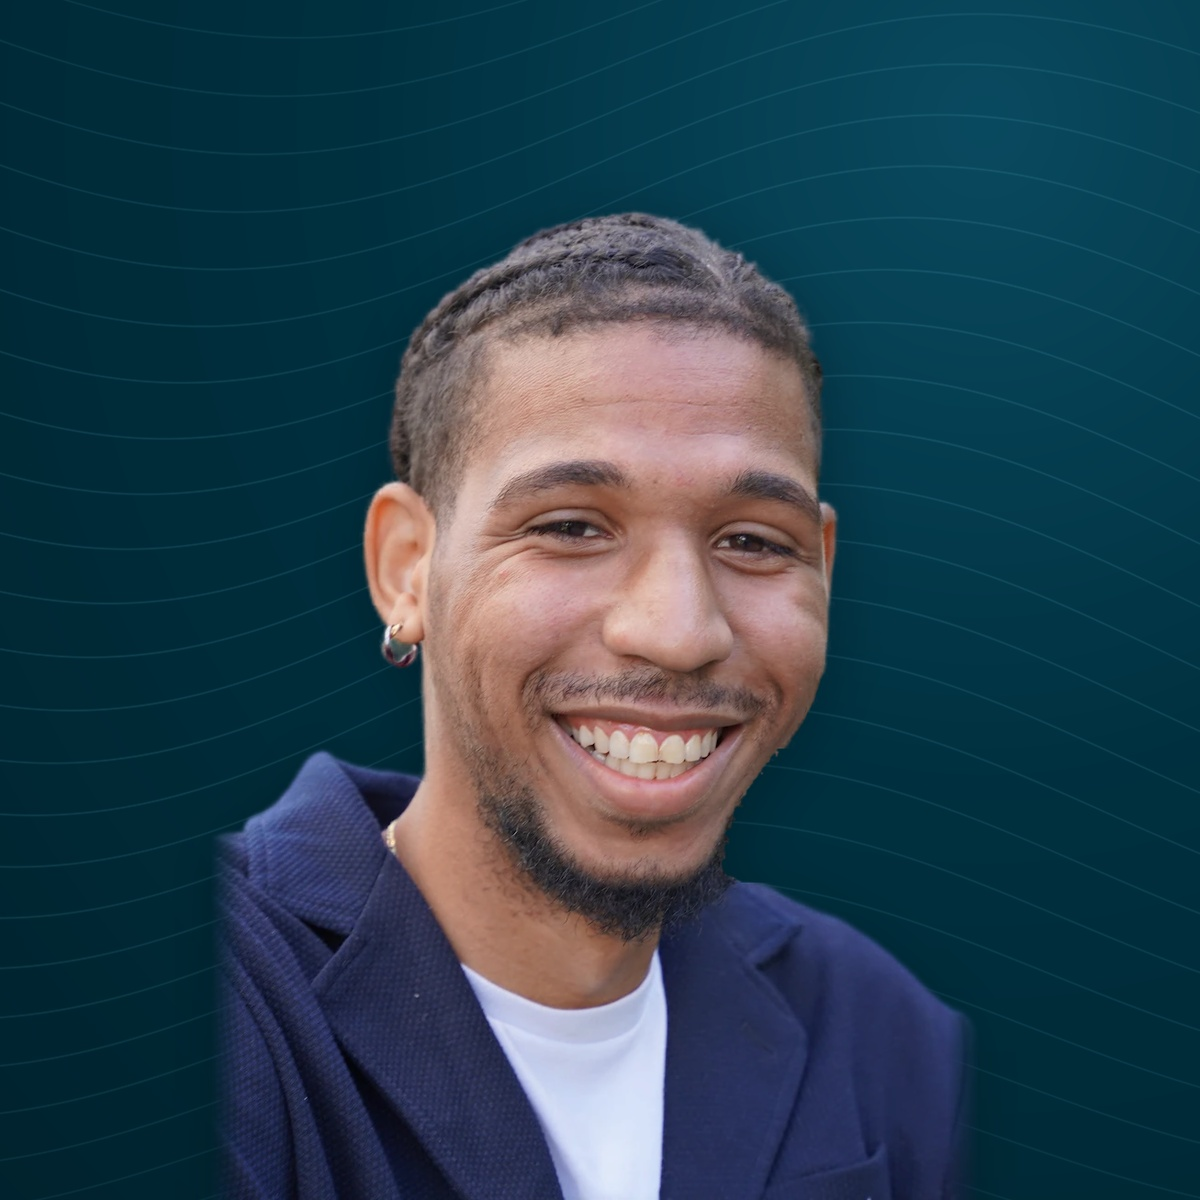
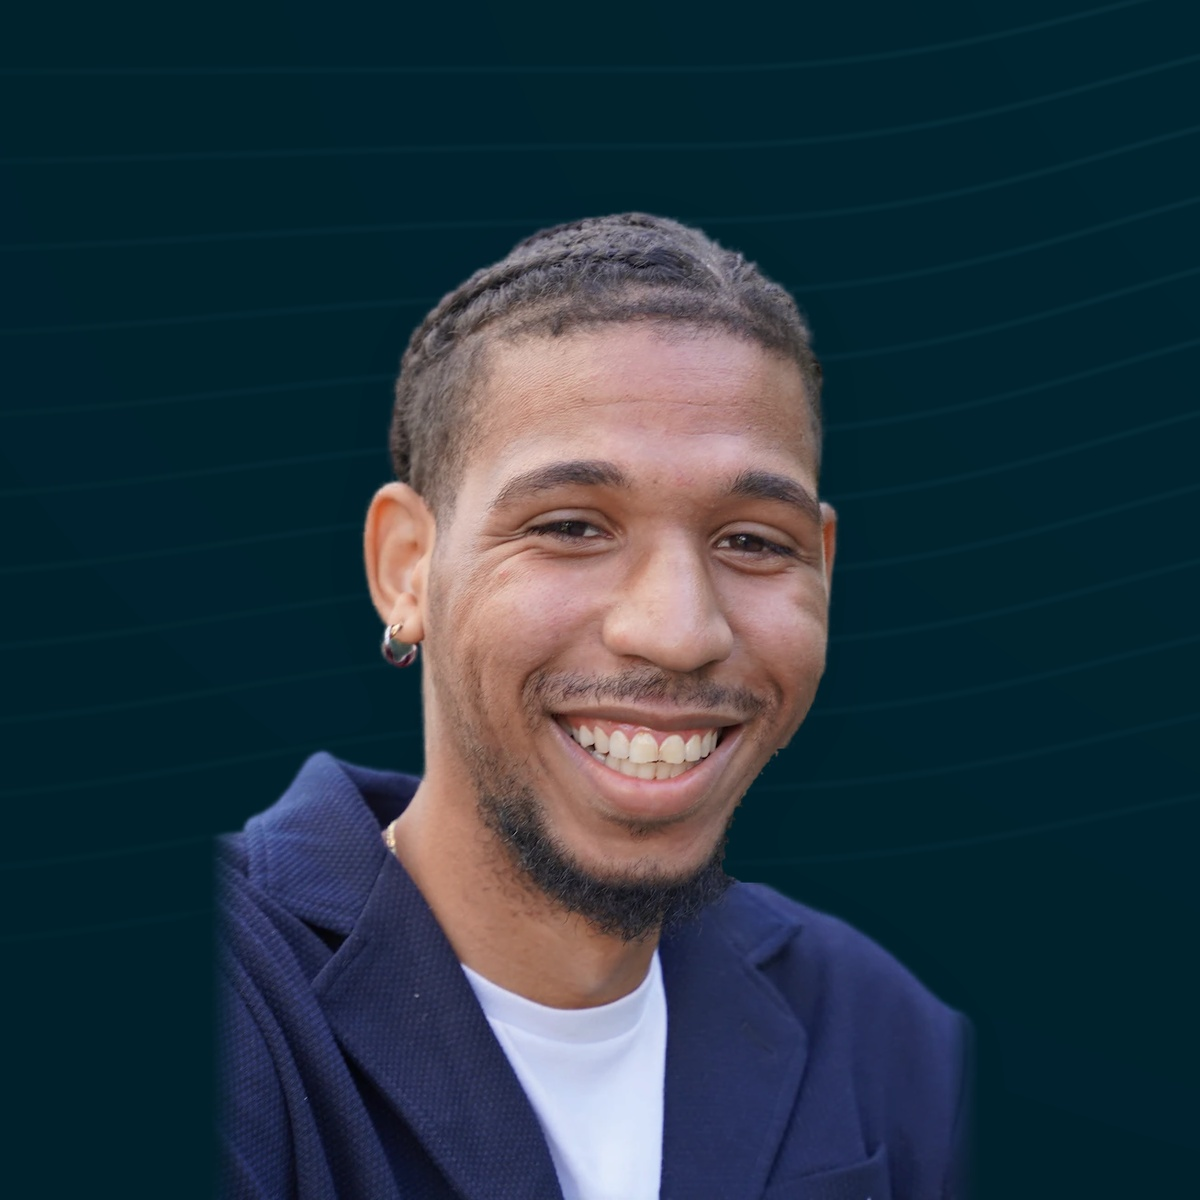
La photo de profil reprend la portion exacte de banniere qu'elle recouvre
Le fond etait seulement dans les memes tons : le disque se lisait comme une
pastille posee sur la banniere, plus claire qu'elle a cet endroit.

La position du disque est relevee sur une capture du profil, par ajustement
d'un cercle sur le lisere blanc : centre (207,2 ; 363,7), rayon 153,2 en
coordonnees de banniere 1584x396. Le fond de la photo est desormais la
portion x 54,0..360,3 / y 210,5..516,9 de cette banniere, si bien que les
lignes de niveau traversent le lisere sans decalage.

Le navigateur ne dessinant que les 396 pixels de haut de la banniere, et 39 %
du disque tombant sous ce bord, le fond est refait en calcul : degrade
radial, lignes de niveau et voile sont reecrits d'apres leurs regles CSS.
La formule est verifiee contre le rendu de Chromium avant usage, ecart moyen
de 0,42 sur 255.

L'ombre portee est ramenee de 38 a 16 % : elle creusait un halo sombre que
la banniere n'a pas, et travaillait contre le raccord.

Claude-Session: https://claude.ai/code/session_01GKmnHuXGa8xNjYghpKgrZb

Changed region(s): [[0.4008, 0.0, 1.0, 0.5858]]

diff --git a/nazar-linkedin/sources/fond_banniere.py b/nazar-linkedin/sources/fond_banniere.py
@@ -1,0 +1,85 @@
+# -*- coding: utf-8 -*-
+"""Reproduit en calcul le fond de la banniere, pour pouvoir l'evaluer
+n'importe ou, y compris sous son bord bas.
+
+Le navigateur ne sait dessiner que les 1584 x 396 de la banniere. Or le
+cercle de la photo de profil deborde en dessous. Il faut donc la meme
+formule, mais prolongeable. Elle est verifiee contre le rendu du navigateur
+avant d'etre utilisee.
+"""
+import math
+import numpy as np
+
+L, H = 1584.0, 396.0                      # dimensions de la banniere
+NUIT, PROF, HAUT = (0x00,0x21,0x2c), (0x00,0x30,0x3f), (0x0a,0x4a,0x60)
+ACC = (0x7f, 0xd8, 0xee)
+VOILE = (0, 33, 44)
+
+def _degrade(x, y):
+    """radial-gradient(130% 150% at 88% 12%, #0a4a60 0%, #00303f 42%, #00212c 100%)"""
+    cx, cy, rx, ry = .88*L, .12*H, 1.30*L, 1.50*H
+    t = np.clip(np.sqrt(((x-cx)/rx)**2 + ((y-cy)/ry)**2), 0, 1)
+    img = np.empty(x.shape + (3,), np.float64)
+    for i in range(3):
+        a, b, c = HAUT[i], PROF[i], NUIT[i]
+        img[..., i] = np.where(t < .42, a + (b-a)*(t/.42), b + (c-b)*((t-.42)/.58))
+    return img
+
+def _courbe(i, n, xs):
+    """Ordonnee de la i-eme ligne de niveau, aux abscisses xs.
+
+    Les beziers du SVG ont leurs points de controle a la meme ordonnee que
+    leurs extremites : on les echantillonne puis on interpole, plutot que de
+    les rasteriser."""
+    t = i/float(n-1)
+    base = -H*.34 + t*H*1.46
+    amp = H*(.085 + .055*math.sin(t*math.pi))
+    pas = L/7.0
+    px, py = [], []
+    for k in range(8):
+        px.append(k*pas)
+        py.append(base + amp*math.sin(k*.82 + t*2.1) - t*H*.05)
+    ex, ey = [], []
+    u = np.linspace(0, 1, 160)
+    for k in range(1, 8):
+        x0, y0, x1, y1 = px[k-1], py[k-1], px[k], py[k]
+        c0x, c1x = x0 + pas*.45, x1 - pas*.45
+        bx = (1-u)**3*x0 + 3*(1-u)**2*u*c0x + 3*(1-u)*u**2*c1x + u**3*x1
+        by = (1-u)**3*y0 + 3*(1-u)**2*u*y0 + 3*(1-u)*u**2*y1 + u**3*y1
+        ex.append(bx); ey.append(by)
+    ex = np.concatenate(ex); ey = np.concatenate(ey)
+    o = np.argsort(ex)
+    return np.interp(xs, ex[o], ey[o]), .16*(.45 + .55*math.sin(t*math.pi))
+
+def _lignes(img, x, y, n=26, epaisseur=1.6):
+    xs = x[0] if x.ndim == 2 else x
+    for i in range(n):
+        yc, o = _courbe(i, n, xs)
+        d = np.abs(y - yc[None, :])
+        couv = np.clip(epaisseur/2.0 + .5 - d, 0, 1) * o
+        for c in range(3):
+            img[..., c] = img[..., c]*(1-couv) + ACC[c]*couv
+    return img
+
+def _voile(img, x, y):
+    """linear-gradient(100deg, rgba(0,33,44,.92), rgba(0,33,44,.55) 34%, rgba(0,33,44,0) 62%)"""
+    a = math.radians(100.0)
+    dx, dy = math.sin(a), -math.cos(a)
+    lg = abs(L*math.sin(a)) + abs(H*math.cos(a))
+    p = .5 + ((x - L/2)*dx + (y - H/2)*dy)/lg
+    al = np.where(p < 0, .92,
+         np.where(p < .34, .92 + (.55-.92)*(p/.34),
+         np.where(p < .62, .55 + (0-.55)*((p-.34)/.28), 0.0)))
+    for c in range(3):
+        img[..., c] = img[..., c]*(1-al) + VOILE[c]*al
+    return img
+
+def rendu(x0, y0, x1, y1, taille):
+    """Le fond de la banniere sur le rectangle demande, en `taille` pixels."""
+    xs = x0 + (np.arange(taille) + .5)*(x1-x0)/taille
+    ys = y0 + (np.arange(taille) + .5)*(y1-y0)/taille
+    x, y = np.meshgrid(xs, ys)
+    img = _degrade(x, y)
+    img = _lignes(img, x, y)
+    img = _voile(img, x, y)
+    return np.clip(img, 0, 255)

diff --git a/nazar-linkedin/sources/photo-compose.py b/nazar-linkedin/sources/photo-compose.py
@@ -10,33 +10,25 @@ Trois precautions :
     cheveux a 17 % du haut, pour que le cercle d'affichage de LinkedIn ne
     rogne ni les cheveux ni le menton.
 """
-import math
+import math, sys, os
+sys.path.insert(0, os.path.dirname(os.path.abspath(__file__)))
 import numpy as np
 from PIL import Image, ImageFilter
+import fond_banniere as FB
+
+# Position du disque de la photo dans la banniere, relevee sur une capture du
+# profil : LinkedIn pose l'avatar a cheval sur le bord bas, 61 % du disque
+# recouvre la banniere, le reste tombe sur la carte blanche. Reproduire cette
+# portion precise, plutot qu'un fond qui lui ressemble, est ce qui fait que la
+# photo se fond dans la banniere au lieu d'y etre posee.
+ZONE = (54.0, 210.5, 360.3, 516.9)
 
 COTE = 1200
 NUIT, PROF, HAUT = (0x00,0x21,0x2c), (0x00,0x30,0x3f), (0x0a,0x4a,0x60)
 ACC = (0x7f,0xd8,0xee)
 
 def fond(n=COTE):
-    y, x = np.mgrid[0:n, 0:n].astype(np.float32)
-    cx, cy = n*.82, n*.10
-    r = np.clip(np.sqrt(((x-cx)/(n*1.25))**2 + ((y-cy)/(n*1.35))**2), 0, 1)
-    img = np.zeros((n, n, 3), np.float32)
-    for i in range(3):
-        a, b, c = HAUT[i], PROF[i], NUIT[i]
-        img[..., i] = np.where(r < .42, a + (b-a)*(r/.42), b + (c-b)*((r-.42)/.58))
-    lignes = np.zeros((n, n), np.float32)
-    for k in range(30):
-        t = k/29.0
-        base = -n*.22 + t*n*1.34
-        amp = n*(.055 + .04*math.sin(t*math.pi))
-        d = np.abs(y - (base + amp*np.sin(x/n*5.1 + t*2.3) - t*n*.04))
-        lignes += np.clip(1.0 - d/1.7, 0, 1) * (.30 + .34*math.sin(t*math.pi))
-    lignes = np.clip(lignes, 0, 1)
-    for i in range(3):
-        img[..., i] = img[..., i]*(1 - lignes*.20) + ACC[i]*lignes*.20
-    return Image.fromarray(np.clip(img, 0, 255).astype(np.uint8))
+    return Image.fromarray(FB.rendu(ZONE[0], ZONE[1], ZONE[2], ZONE[3], n).astype(np.uint8))
 
 def nettoie(im, marge=34):
     a = np.asarray(im).astype(np.float32)
@@ -112,8 +104,8 @@ def fabrique(src_png, sortie):
 
     base = fond().convert('RGBA')
     ombre = Image.new('RGBA', (COTE, COTE), (0, 0, 0, 0))
-    ombre.putalpha(toile.getchannel('A').filter(ImageFilter.GaussianBlur(30))
-                        .point(lambda v: int(v*.38)))
+    ombre.putalpha(toile.getchannel('A').filter(ImageFilter.GaussianBlur(34))
+                        .point(lambda v: int(v*.16)))
     base.paste((0, 11, 17), (0, 12), ombre.getchannel('A'))
     base.alpha_composite(toile)
     base.convert('RGB').save(sortie, quality=95)

diff --git a/nazar-linkedin/sources/photo-simul.py b/nazar-linkedin/sources/photo-simul.py
@@ -1,0 +1,34 @@
+# -*- coding: utf-8 -*-
+"""Reconstitue l'en-tete du profil pour juger du raccord : la banniere telle
+qu'elle est chargee, la carte blanche en dessous, et le disque de la photo
+a la position relevee sur la capture."""
+import numpy as np
+from PIL import Image, ImageDraw
+
+BAN = '../lk/NAZAR-profil-D.png'
+CX, CY, R = 207.2, 363.7, 153.2      # en coordonnees de banniere
+LISERE = 6.0
+
+def simule(photo, sortie, marge_bas=190):
+    ban = Image.open(BAN).convert('RGB')
+    L, H = ban.size
+    page = Image.new('RGB', (L, H + marge_bas), (255, 255, 255))
+    page.paste(ban, (0, 0))
+
+    k = 4                                   # on travaille en suréchantillonné
+    d = int(round(2*(R + LISERE)*k))
+    disque = Image.new('RGBA', (d, d), (0, 0, 0, 0))
+    ph = Image.open(photo).convert('RGB').resize((int(round(2*R*k)),)*2, Image.LANCZOS)
+    m = Image.new('L', (d, d), 0); ImageDraw.Draw(m).ellipse((0, 0, d-1, d-1), fill=255)
+    blanc = Image.new('RGBA', (d, d), (255, 255, 255, 255)); blanc.putalpha(m)
+    disque.alpha_composite(blanc)
+    mp = Image.new('L', ph.size, 0); ImageDraw.Draw(mp).ellipse((0, 0, ph.size[0]-1, ph.size[1]-1), fill=255)
+    o = int(round(LISERE*k))
+    disque.paste(ph, (o, o), mp)
+    disque = disque.resize((int(round(d/float(k))),)*2, Image.LANCZOS)
+
+    page.paste(disque, (int(round(CX-R-LISERE)), int(round(CY-R-LISERE))), disque)
+    page.save(sortie, quality=95)
+    print(sortie)
+
+simule('NAZAR-photo-profil.jpg', 'simul-nouveau.jpg')
